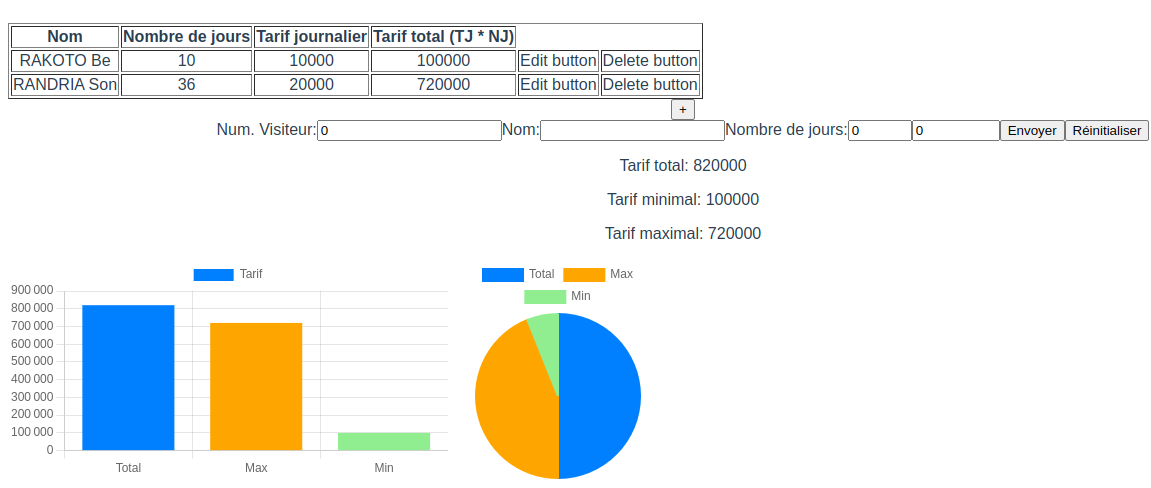
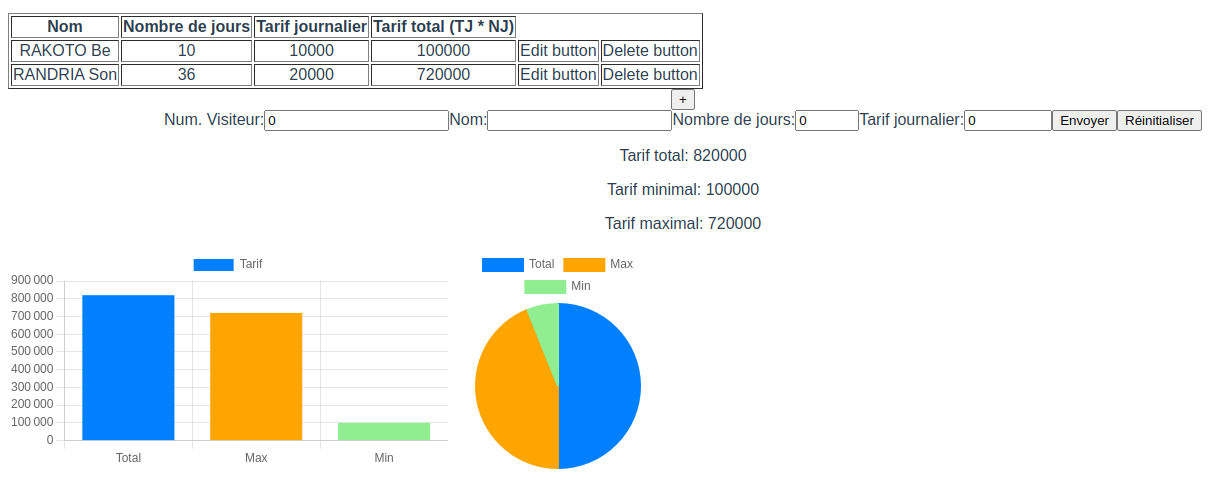
Added daily fee label in the form (whoops)

Changed region(s): [[0.0, 0.0312, 1.0, 0.499], [0.0, 0.5301, 0.5778, 0.9979], [0.152, 0.5301, 0.2433, 0.5925]]

diff --git a/src/components/VisitorForm.vue b/src/components/VisitorForm.vue
@@ -7,7 +7,7 @@
         <input v-model="formNameField" id="visitor-name-field" type="text" maxlength="100" required>
         <label for="visitor-days-count-field">Nombre de jours:</label>
         <input v-model="formDaysCountField" id="visitor-days-count-field" type="number" min="1" max="365" required>
-        <label for="visitor-daily-fee-field"></label>
+        <label for="visitor-daily-fee-field">Tarif journalier:</label>
         <input v-model="formDailyFeeField" id="visitor-daily-fee-field" type="number" min="100" max="200000" required>
 
         <input id="visitor-form-submit-button" type="submit">
